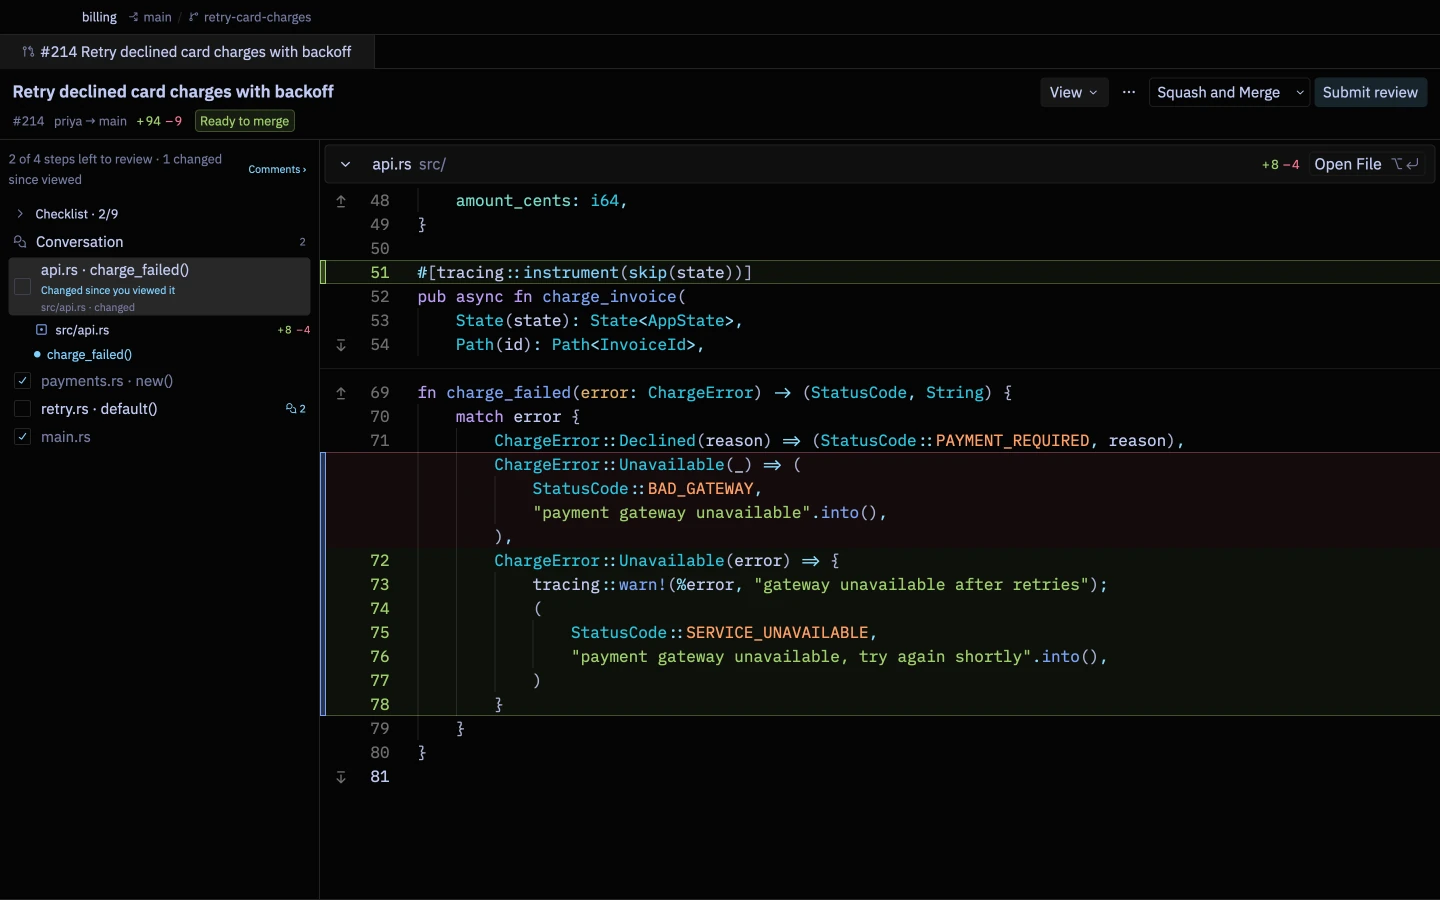
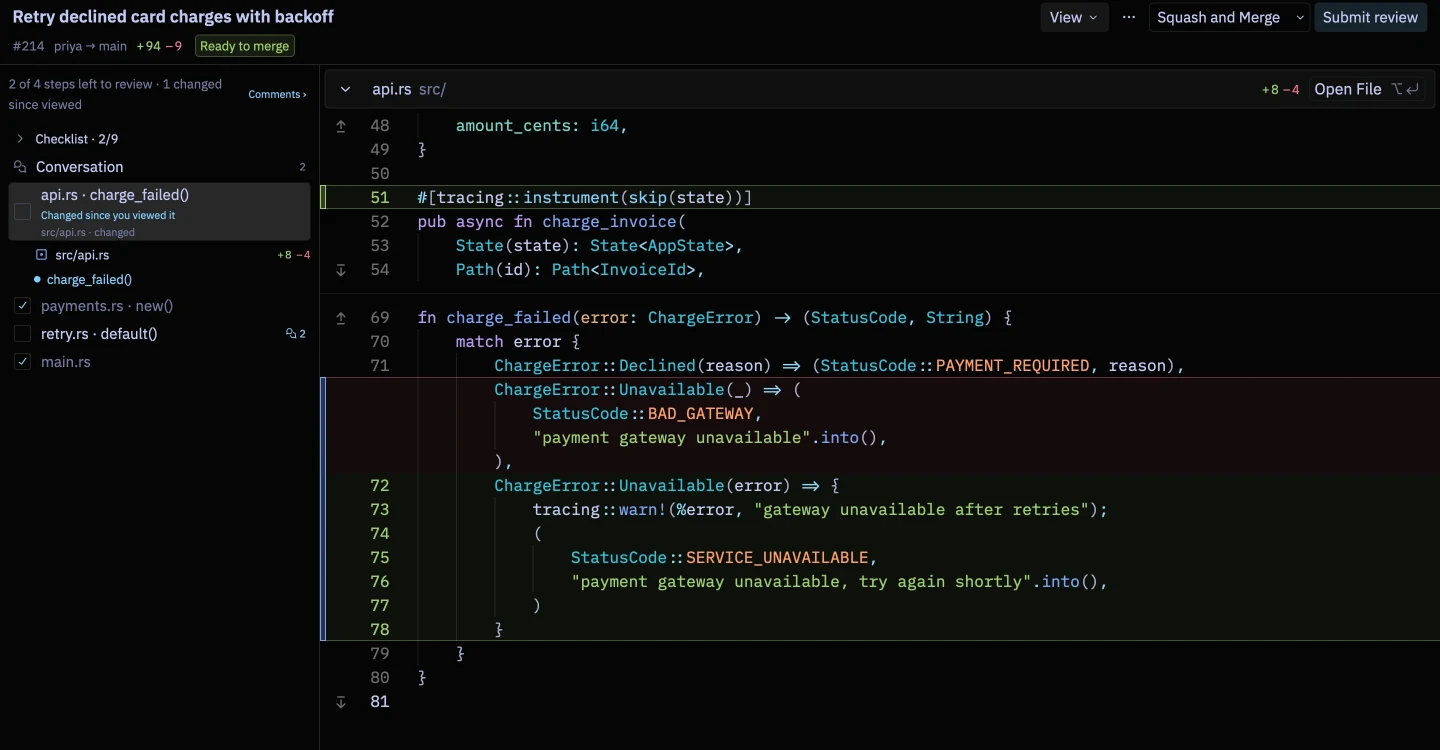
Site: trim the steps shot; show the call map at its natural size

diff --git a/docs/photon/site/index.html b/docs/photon/site/index.html
@@ -195,7 +195,7 @@
   </div>
   <figure class="showcase wrap"><div class="glow"></div><picture>
     <source type="image/webp" srcset="img/app/cu-review-steps-1x.webp 1440w, img/app/cu-review-steps.webp 2880w" sizes="(min-width: 1320px) 1240px, 94vw">
-    <img src="img/app/cu-review-steps-1x.webp" width="1440" height="900" loading="lazy" alt="The steps of a pull request with progress, comment counts and a step changed since it was viewed, beside the diff and the Ready to merge pill.">
+    <img src="img/app/cu-review-steps-1x.webp" width="1440" height="750" loading="lazy" alt="The steps of a pull request with progress, comment counts and a step changed since it was viewed, beside the diff and the Ready to merge pill.">
   </picture><figcaption>Steps in reading order, viewed marks that belong to the push you reviewed, and Ready to merge in the header.</figcaption></figure>
   <figure class="showcase wrap"><div class="glow"></div><picture>
     <source type="image/webp" srcset="img/app/cu-review-comments-view-1x.webp 1440w, img/app/cu-review-comments-view.webp 2880w" sizes="(min-width: 1320px) 1240px, 94vw">
@@ -259,7 +259,7 @@
     <h2>See who calls what, even on a bad day.</h2>
     <p class="band-lede">Follow calls through a trail or a map, jump to definitions without a language server, and get a plain answer when one won't start.</p>
   </div>
-  <figure class="showcase wrap"><div class="glow"></div><picture>
+  <figure class="showcase showcase-narrow wrap"><div class="glow"></div><picture>
     <source type="image/webp" srcset="img/app/cu-call-map-1x.webp 859w, img/app/cu-call-map.webp 1718w" sizes="(min-width: 1320px) 1240px, 94vw">
     <img src="img/app/cu-call-map-1x.webp" width="859" height="300" loading="lazy" alt="The call map: callers of charge drawn left to right with the selected trail from main lit up.">
   </picture><figcaption>The call map: the trail you selected is lit, the rest dimmed. Click a function to open it.</figcaption></figure>

diff --git a/docs/photon/site/site.css b/docs/photon/site/site.css
@@ -308,3 +308,6 @@ b { font-weight: 600; color: var(--text); }
 .chip-file { font: 12.5px "Lilex"; color: var(--text); background: var(--raised); border: 1px solid #2a2a2a; border-radius: 6px; padding: 2px 8px; }
 .chip-file i { font-style: normal; } .chip-file .g { color: var(--green); } .chip-file .r { color: var(--red); }
 .turn-btn { margin-left: auto; font: 600 12.5px "Plex"; color: var(--text); background: var(--raised); border: 1px solid #2a2a2a; border-radius: 6px; padding: 3px 10px; }
+
+.showcase-narrow picture { max-width: 880px; margin: 0 auto; }
+.showcase-narrow figcaption { margin-left: auto; margin-right: auto; max-width: 880px; }
